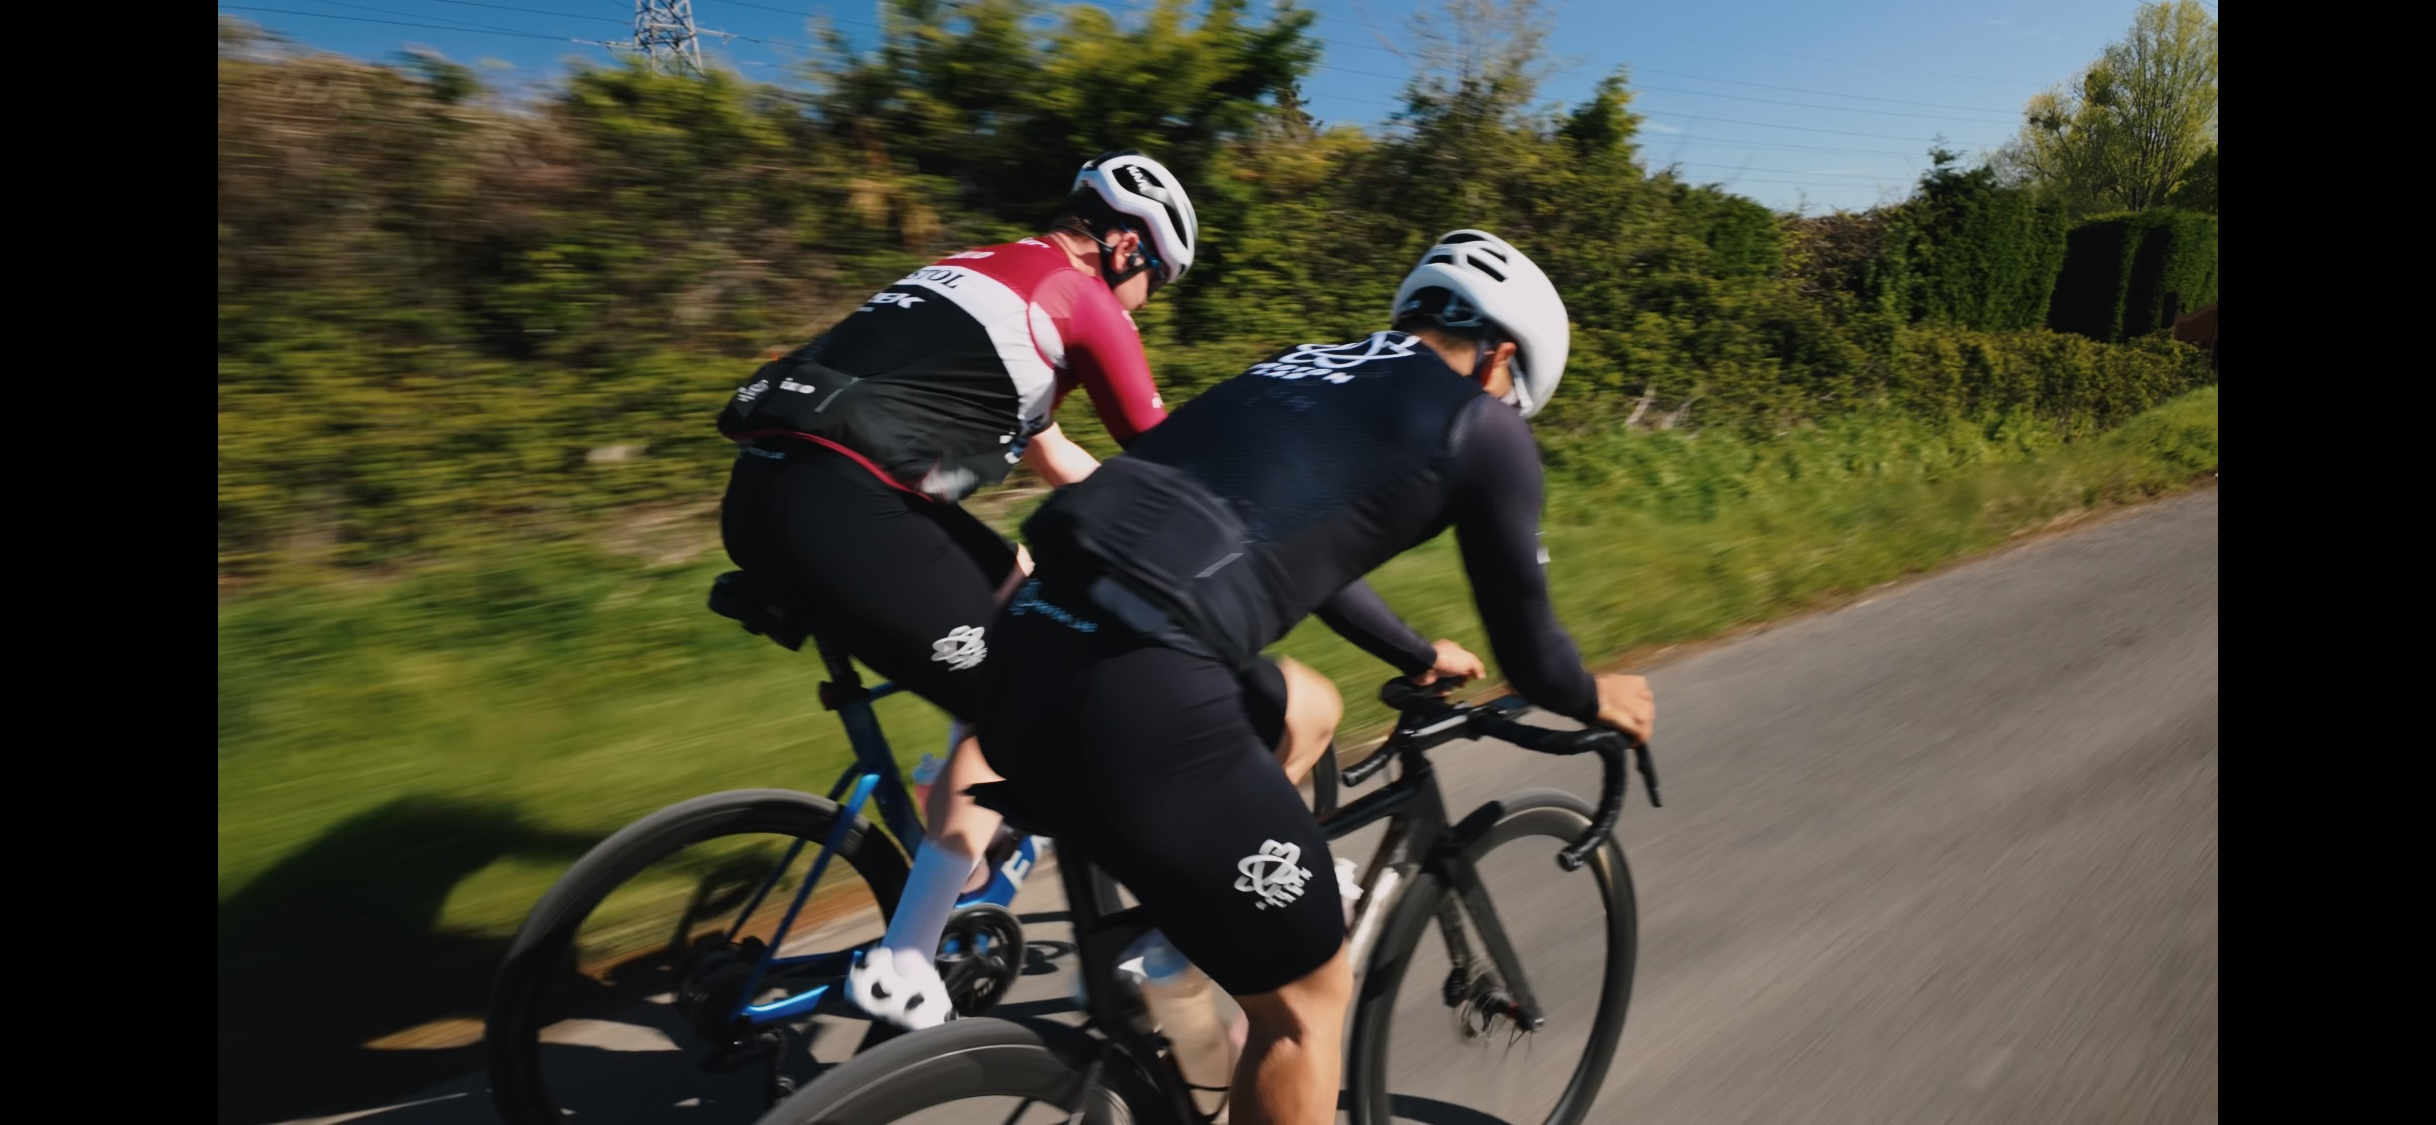
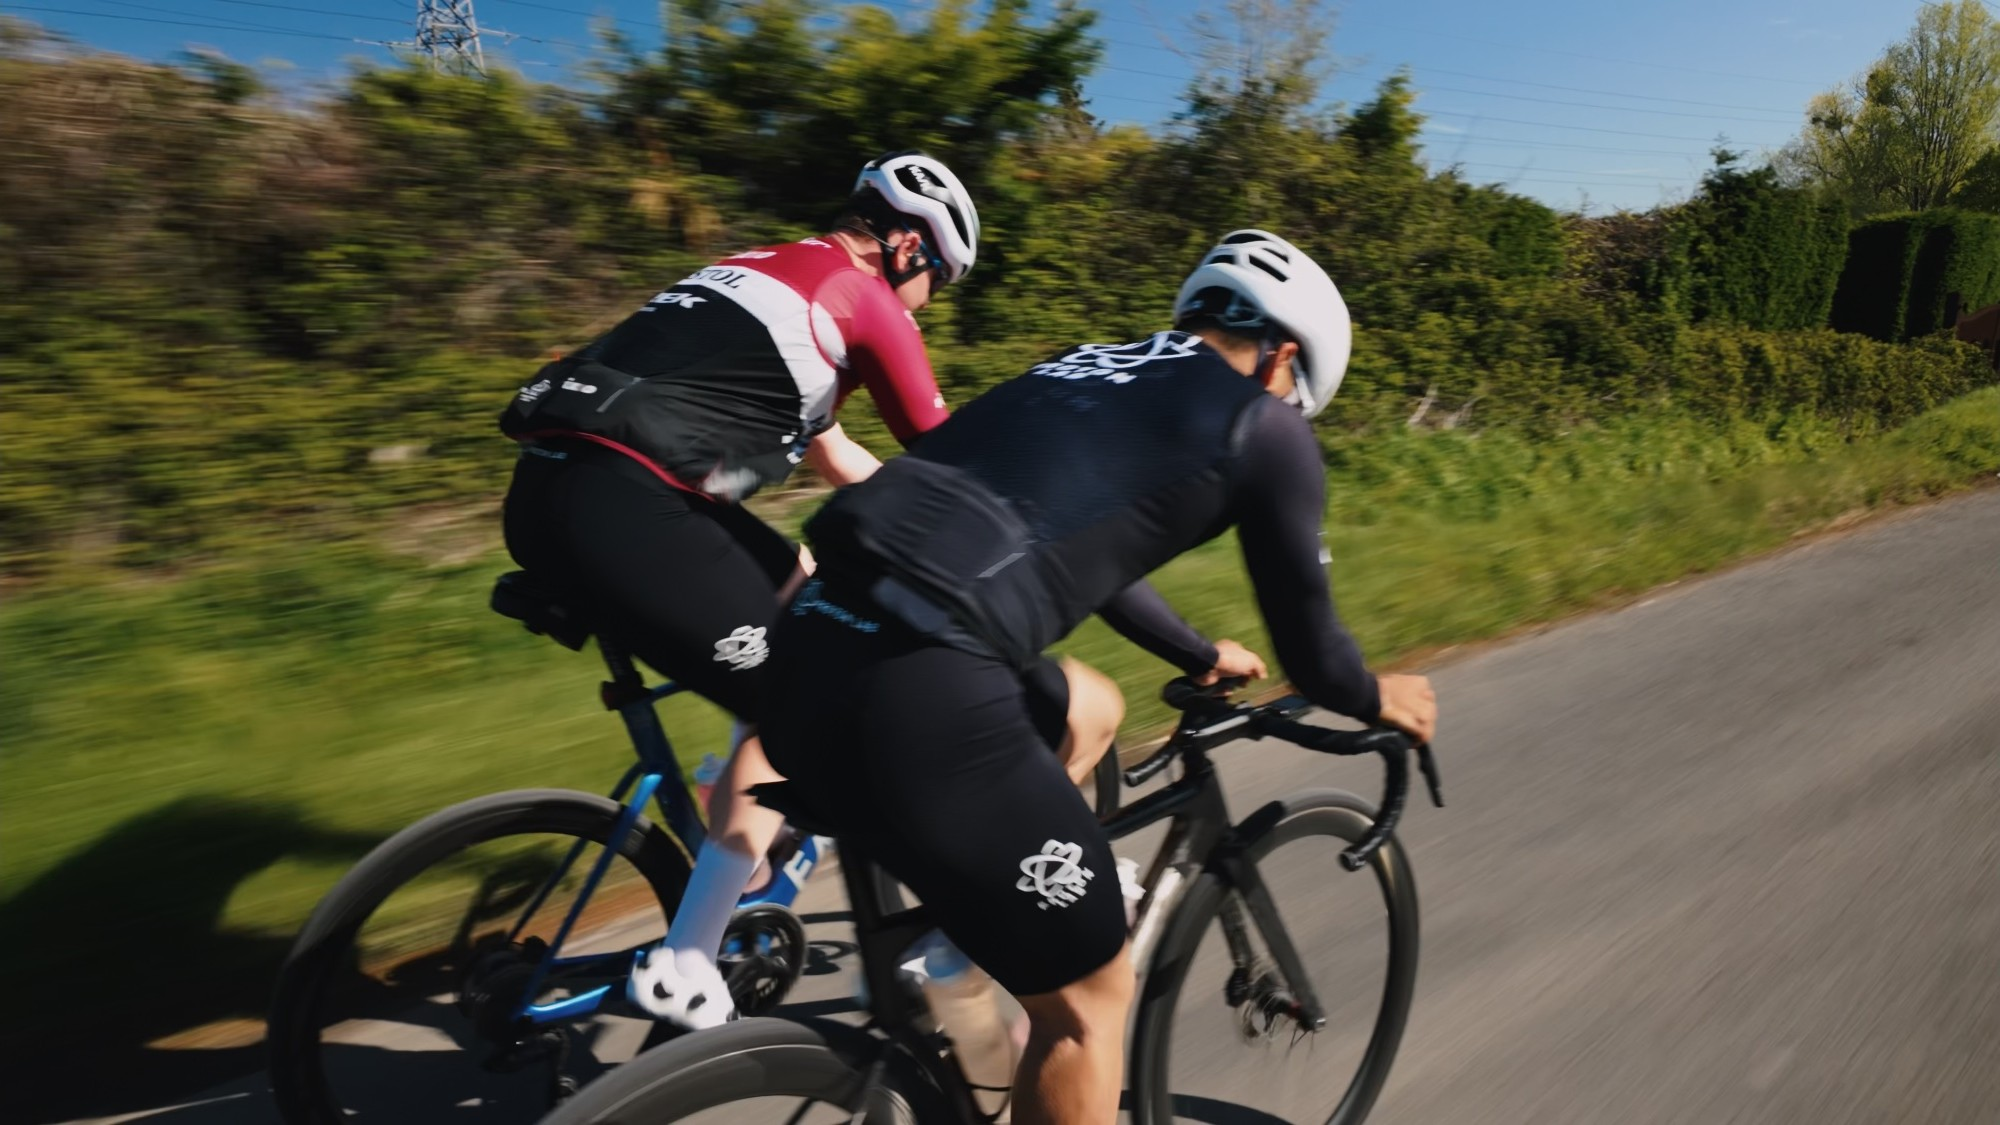
Club PDP fit selector; remove decorative eyebrows site-wide; fix Custom hero image
- Club product pages: Men's / Women's "Fit" row above the sizes. No default;
  Add to Cart reads "Select Men's or Women's" until chosen. Fit is prefixed
  onto the size ("Women's M") so it reaches the cart, Stripe metadata, order
  emails and the dashboard. Accessories (socks, mitts, warmers, buff) skip it.
- Remove the small uppercase eyebrow labels across the site: club gate
  ("Club Access"), home hero ("Proton Lab CC") + scroll indicator, home
  carousel ("New In"), home tiles, shop cards + retail PDP collection name,
  club PDP club name, club landing section labels, custom page, contact,
  delivery, privacy, giveaway terms, 404, about, team, journal. The cart
  drawer's club/brand line is kept. Unused imports/lookups removed.
- Custom page hero: crop the 218px black bars baked into Custom.jpg
  (2436x1125 -> 2000x1125), bump the src to ?v=2, and raise the hero from
  ~48vh to 70svh / 80vh.

Claude-Session: https://claude.ai/code/session_01C3jQdtZ2G15HrJkTxd1y2D

diff --git a/app/custom/club/[handle]/[productHandle]/ClubVariantSelector.tsx b/app/custom/club/[handle]/[productHandle]/ClubVariantSelector.tsx
@@ -18,16 +18,29 @@ interface Props {
   // and the order emails, and keeps cart lines distinct across colourways
   // that share one catalogue handle.
   variant?: string
+  // Show the Men's / Women's fit choice above the sizes. Off for unisex
+  // accessories (socks, mitts, warmers, buff).
+  showFit?: boolean
 }
 
-export default function ClubVariantSelector({ variants, productHandle, productName, clubHandle, clubName, price, variant }: Props) {
+type Fit = "Men's" | "Women's"
+const FITS: Fit[] = ["Men's", "Women's"]
+
+export default function ClubVariantSelector({ variants, productHandle, productName, clubHandle, clubName, price, variant, showFit = true }: Props) {
   const [selectedId, setSelectedId] = useState<string | null>(variants[0]?.id ?? null)
+  // No default fit — the customer must choose, so a women's order can't
+  // slip through as men's cut by accident.
+  const [fit, setFit] = useState<Fit | null>(null)
   const [added, setAdded] = useState(false)
   const { addItem, openCart } = useCartStore()
 
   const selected = variants.find(v => v.id === selectedId)
   const baseSize = selected?.selectedOptions.find(o => o.name === 'Size')?.value ?? selected?.title ?? ''
-  const sizeLabel = variant ? `${baseSize} — ${variant}` : baseSize
+  // Fit is prefixed onto the size (e.g. "Women's M") so it reaches Stripe
+  // metadata, the order emails and the dashboard alongside the size.
+  const fitSize = showFit && fit ? `${fit} ${baseSize}` : baseSize
+  const sizeLabel = variant ? `${fitSize} — ${variant}` : fitSize
+  const needsFit = showFit && !fit
 
   // Meta Pixel: club product page viewed
   useEffect(() => {
@@ -56,7 +69,7 @@ export default function ClubVariantSelector({ variants, productHandle, productNa
   }, [productHandle])
 
   function handleAddToCart() {
-    if (!selected) return
+    if (!selected || needsFit) return
     addItem({ clubHandle, clubName, productHandle, productName, size: sizeLabel, price })
     trackMetaEvent('AddToCart', {
       content_ids: [productHandle],
@@ -85,6 +98,33 @@ export default function ClubVariantSelector({ variants, productHandle, productNa
 
   return (
     <div className="space-y-6">
+      {/* Fit selector — Men's / Women's */}
+      {showFit && (
+        <div>
+          <p className="text-[10px] uppercase tracking-widest text-proton-grey mb-3">Fit</p>
+          <div className="flex flex-wrap gap-2">
+            {FITS.map(f => {
+              const isSelected = fit === f
+              return (
+                <button
+                  key={f}
+                  type="button"
+                  aria-pressed={isSelected}
+                  onClick={() => { setFit(f); setAdded(false) }}
+                  className={`h-11 px-5 border text-xs uppercase tracking-widest transition-all duration-200 focus-visible:outline-none focus-visible:ring-2 focus-visible:ring-proton-black focus-visible:ring-offset-2 ${
+                    isSelected
+                      ? 'bg-proton-black text-proton-white border-proton-black'
+                      : 'bg-transparent text-proton-black border-proton-mid hover:border-proton-black'
+                  }`}
+                >
+                  {f}
+                </button>
+              )
+            })}
+          </div>
+        </div>
+      )}
+
       {/* Size selector */}
       <div>
         <p className="text-[10px] uppercase tracking-widest text-proton-grey mb-3">Size</p>
@@ -115,9 +155,9 @@ export default function ClubVariantSelector({ variants, productHandle, productNa
           size="lg"
           className="w-full justify-center"
           onClick={handleAddToCart}
-          disabled={!selected}
+          disabled={!selected || needsFit}
         >
-          {added ? 'Added to Cart' : 'Add to Cart'}
+          {added ? 'Added to Cart' : needsFit ? "Select Men's or Women's" : 'Add to Cart'}
         </Button>
 
         {added && (

diff --git a/app/custom/page.tsx b/app/custom/page.tsx
@@ -32,9 +32,9 @@ export default function CustomPage() {
   return (
     <PageWrapper noPadding>
       {/* Hero */}
-      <div className="relative min-h-[45svh] md:min-h-[48vh] bg-proton-black overflow-hidden flex items-end">
+      <div className="relative min-h-[70svh] md:min-h-[80vh] bg-proton-black overflow-hidden flex items-end">
         <Image
-          src="/images/hero/Custom.jpg"
+          src="/images/hero/Custom.jpg?v=2"
           alt=""
           fill
           priority
@@ -43,9 +43,6 @@ export default function CustomPage() {
         />
         <div className="absolute inset-0 bg-gradient-to-t from-proton-black/80 via-proton-black/20 to-transparent" />
         <div className="relative z-10 max-w-7xl w-full mx-auto px-6 md:px-12 pb-8 md:pb-10">
-          <p className="text-[10px] text-proton-white/60 uppercase tracking-widest mb-3">
-            Custom Kit
-          </p>
           <h1 className="font-playfair text-5xl md:text-7xl text-proton-white leading-none max-w-2xl">
             Your Identity.<br />Your Design.
           </h1>
@@ -79,9 +76,6 @@ export default function CustomPage() {
       {/* Process */}
       <div className="border-t border-proton-light py-16 md:py-24">
         <div className="max-w-7xl mx-auto px-6 md:px-12">
-          <p className="text-[10px] text-proton-grey uppercase tracking-widest mb-12">
-            How It Works
-          </p>
           <div className="grid grid-cols-1 sm:grid-cols-2 lg:grid-cols-4 gap-10">
             {process.map(step => (
               <div key={step.step}>
@@ -112,9 +106,6 @@ export default function CustomPage() {
       <div className="border-t border-proton-light py-16 md:py-20 bg-proton-light">
         <div className="max-w-7xl mx-auto px-6 md:px-12 flex flex-col md:flex-row justify-between items-start md:items-center gap-8">
           <div>
-            <p className="text-[10px] text-proton-grey uppercase tracking-widest mb-3">
-              Club Shops
-            </p>
             <h2 className="font-playfair text-3xl md:text-4xl leading-tight max-w-lg">
               Private team stores — order, reorder, and manage your club kit online.
             </h2>

diff --git a/app/page.tsx b/app/page.tsx
@@ -38,7 +38,6 @@ export default async function HomePage() {
       {/* 1. Hero */}
       <VideoHero
         imageSrc="/images/hero/Home2.jpeg"
-        eyebrow="Proton Lab CC"
         headline="No Compromise."
         subheadline="Premium cycling apparel precision-engineered for those who train and race."
         ctaText="Shop"
@@ -63,7 +62,6 @@ export default async function HomePage() {
             />
             <div className="absolute inset-0 bg-proton-black/40 group-hover:bg-proton-black/55 transition-colors duration-300" />
             <div className="relative z-10 p-8 md:p-10">
-              <p className="text-[10px] text-proton-white/60 uppercase tracking-widest mb-2">Ready to Ship</p>
               <h2 className="font-playfair text-4xl text-proton-white leading-none">Shop</h2>
               <span className="inline-block mt-4 text-xs uppercase tracking-widest text-proton-white border-b border-proton-white pb-0.5">
                 Shop Now
@@ -80,7 +78,6 @@ export default async function HomePage() {
             />
             <div className="absolute inset-0 bg-proton-black/40 group-hover:bg-proton-black/55 transition-colors duration-300" />
             <div className="relative z-10 p-8 md:p-10">
-              <p className="text-[10px] text-proton-white/60 uppercase tracking-widest mb-2">Made to Order</p>
               <h2 className="font-playfair text-4xl text-proton-white leading-none">Custom Kit</h2>
               <span className="inline-block mt-4 text-xs uppercase tracking-widest text-proton-white border-b border-proton-white pb-0.5">
                 Learn More

diff --git a/app/team/page.tsx b/app/team/page.tsx
@@ -52,9 +52,6 @@ export default function TeamPage() {
       {/* Header */}
       <div className="max-w-7xl mx-auto px-6 md:px-12 py-24 md:py-32">
         <div className="max-w-2xl mb-16 md:mb-24">
-          <p className="text-[10px] text-proton-grey uppercase tracking-widest mb-4">
-            The Athletes
-          </p>
           <h1 className="font-playfair text-5xl md:text-7xl leading-none mb-8">
             Our Team
           </h1>
@@ -77,9 +74,6 @@ export default function TeamPage() {
                   className="object-cover transition-transform duration-500 group-hover:scale-105"
                 />
               </div>
-              <p className="text-[10px] text-proton-grey uppercase tracking-widest mb-1">
-                {member.role}
-              </p>
               <h3 className="font-playfair text-xl mb-3">{member.name}</h3>
               <p className="text-sm text-proton-grey leading-relaxed">{member.bio}</p>
             </div>
@@ -92,9 +86,6 @@ export default function TeamPage() {
         <div className="max-w-7xl mx-auto px-6 md:px-12">
           <div className="flex flex-col md:flex-row justify-between items-start md:items-center gap-6">
             <div>
-              <p className="text-[10px] text-proton-grey uppercase tracking-widest mb-2">
-                For Clubs & Teams
-              </p>
               <p className="font-playfair text-2xl md:text-3xl">
                 Interested in a team kit?
               </p>

diff --git a/app/about/page.tsx b/app/about/page.tsx
@@ -37,9 +37,6 @@ export default function AboutPage() {
       {/* Header */}
       <div className="max-w-7xl mx-auto px-6 md:px-12 py-24 md:py-32">
         <div className="max-w-3xl">
-          <p className="text-[10px] text-proton-grey uppercase tracking-widest mb-4">
-            The Brand
-          </p>
           <h1 className="font-playfair text-5xl md:text-7xl leading-none mb-10">
             About Proton Lab CC
           </h1>
@@ -69,9 +66,6 @@ export default function AboutPage() {
 
       {/* Values */}
       <div className="max-w-7xl mx-auto px-6 md:px-12 py-16 mb-16">
-        <p className="text-[10px] text-proton-grey uppercase tracking-widest mb-12">
-          What We Stand For
-        </p>
         <div className="grid grid-cols-1 md:grid-cols-3 gap-12 md:gap-8">
           {values.map(value => (
             <div key={value.title}>
@@ -88,14 +82,10 @@ export default function AboutPage() {
           <p className="font-playfair text-2xl md:text-3xl">
             Engineered in the United Kingdom.
           </p>
-          <p className="text-[10px] text-proton-grey uppercase tracking-widest">
-            Est. 2026
-          </p>
         </div>
       </div>
 
       <CTABanner
-        eyebrow="The Collections"
         headline="See what we have built."
         ctaText="Shop"
         ctaHref="/shop"

diff --git a/components/ui/JournalCard.tsx b/components/ui/JournalCard.tsx
@@ -1,7 +1,6 @@
 import Image from 'next/image'
 import Link from 'next/link'
 import type { JournalPost } from '@/types/journal'
-import { formatDate } from '@/lib/utils'
 
 interface JournalCardProps {
   post: JournalPost
@@ -25,9 +24,6 @@ export default function JournalCard({ post, featured = false, priority = false }
           />
         </div>
         <div>
-          <p className="text-[10px] text-proton-grey uppercase tracking-widest mb-3">
-            {formatDate(post.publishedAt)}
-          </p>
           <h2 className="font-playfair text-3xl md:text-4xl text-proton-black leading-tight mb-4 group-hover:opacity-70 transition-opacity duration-200">
             {post.title}
           </h2>
@@ -56,9 +52,6 @@ export default function JournalCard({ post, featured = false, priority = false }
           priority={priority}
         />
       </div>
-      <p className="text-[10px] text-proton-grey uppercase tracking-widest mb-2">
-        {formatDate(post.publishedAt)}
-      </p>
       <h3 className="font-playfair text-xl text-proton-black leading-snug mb-2 group-hover:opacity-70 transition-opacity duration-200">
         {post.title}
       </h3>

diff --git a/app/products/[slug]/page.tsx b/app/products/[slug]/page.tsx
@@ -58,7 +58,6 @@ export default async function ProductPage({ params }: PageProps) {
   const product = await getProductByHandle(params.slug, currency)
   if (!product) notFound()
 
-  const collectionRef = product.collections?.nodes[0]
   const { amount, currencyCode } = product.priceRange.minVariantPrice
 
   // Cross-sell rows — resolved through the same gate as the page itself, so a
@@ -98,11 +97,6 @@ export default async function ProductPage({ params }: PageProps) {
           <div className="md:col-span-2 md:sticky md:top-24 md:self-start space-y-8">
             {/* Title + price */}
             <div>
-              {collectionRef && (
-                <p className="text-[10px] text-proton-grey uppercase tracking-widest mb-2">
-                  {collectionRef.title}
-                </p>
-              )}
               <h1 className="font-playfair text-3xl md:text-4xl leading-tight mb-4">
                 {product.title}
               </h1>

diff --git a/components/sections/HomeCollectionCarousel.tsx b/components/sections/HomeCollectionCarousel.tsx
@@ -13,7 +13,7 @@ interface HomeCollectionCarouselProps {
 
 export default function HomeCollectionCarousel({
   products,
-  eyebrow = 'New In',
+  eyebrow,
   heading = 'Summer 2026',
 }: HomeCollectionCarouselProps) {
   if (products.length === 0) return null
@@ -25,7 +25,9 @@ export default function HomeCollectionCarousel({
     <section aria-label={`${heading} collection`} className="py-8 md:py-10 border-t border-proton-light">
       <div className="max-w-7xl mx-auto px-6 md:px-12 mb-5 md:mb-6 flex items-end justify-between">
         <div>
-          <p className="text-[10px] text-proton-grey uppercase tracking-widest mb-2">{eyebrow}</p>
+          {eyebrow && (
+            <p className="text-[10px] text-proton-grey uppercase tracking-widest mb-2">{eyebrow}</p>
+          )}
           <h2 className="font-playfair text-3xl md:text-4xl text-proton-black leading-none">{heading}</h2>
         </div>
         <Link

diff --git a/components/ui/ProductCard.tsx b/components/ui/ProductCard.tsx
@@ -9,7 +9,6 @@ interface ProductCardProps {
 }
 
 export default function ProductCard({ product, priority = false }: ProductCardProps) {
-  const collectionTitle = product.collections?.nodes[0]?.title
   const { amount, currencyCode } = product.priceRange.minVariantPrice
 
   // Fixed 2:3 frame keeps every card the same height. Portrait photos fill it
@@ -70,11 +69,6 @@ export default function ProductCard({ product, priority = false }: ProductCardPr
 
       {/* Card details */}
       <div className="pt-3 pb-1">
-        {collectionTitle && (
-          <p className="text-[10px] text-proton-grey uppercase tracking-widest mb-1">
-            {collectionTitle}
-          </p>
-        )}
         <h3 className="font-inter text-sm text-proton-black leading-snug group-hover:opacity-60 transition-opacity duration-200">
           {product.title}
         </h3>

diff --git a/app/custom/club/[handle]/[productHandle]/page.tsx b/app/custom/club/[handle]/[productHandle]/page.tsx
@@ -96,9 +96,6 @@ export default function ClubProductPage() {
             {/* Details */}
             <div className="md:sticky md:top-24 md:self-start space-y-8">
               <div>
-                <p className="text-[10px] text-proton-grey uppercase tracking-widest mb-2">
-                  {club.name}
-                </p>
                 <h1 className="font-playfair text-3xl md:text-4xl leading-tight mb-4">
                   {clubProduct.name}
                 </h1>
@@ -113,6 +110,7 @@ export default function ClubProductPage() {
                 clubName={club.name}
                 price={clubProduct.price}
                 variant={clubProduct.variant}
+                showFit={clubProduct.category !== 'accessories'}
               />
 
               <DeliveryNote />

diff --git a/app/journal/[slug]/page.tsx b/app/journal/[slug]/page.tsx
@@ -4,7 +4,6 @@ import Link from 'next/link'
 import { notFound } from 'next/navigation'
 import PageWrapper from '@/components/layout/PageWrapper'
 import { getJournalPosts, getJournalPostByHandle } from '@/lib/api'
-import { formatDate } from '@/lib/utils'
 
 interface PageProps {
   params: { slug: string }
@@ -54,9 +53,6 @@ export default async function JournalPostPage({ params }: PageProps) {
 
         {/* Meta */}
         <div className="mb-8">
-          <p className="text-[10px] text-proton-grey uppercase tracking-widest mb-3">
-            {formatDate(post.publishedAt)} &nbsp;·&nbsp; {post.author.name}
-          </p>
           <h1 className="font-playfair text-4xl md:text-5xl leading-tight">
             {post.title}
           </h1>

diff --git a/app/custom/club/[handle]/page.tsx b/app/custom/club/[handle]/page.tsx
@@ -55,9 +55,6 @@ export default function ClubShopPage() {
             if (products.length === 0) return null
             return (
               <section key={section.key} className="mb-16 md:mb-20 last:mb-0">
-                <p className="text-[10px] uppercase tracking-widest text-proton-grey mb-8">
-                  {section.label}
-                </p>
                 <div className="grid grid-cols-2 md:grid-cols-3 lg:grid-cols-4 gap-x-6 gap-y-12">
                   {products.map((product, i) => (
                     <Link key={product.handle} href={`/custom/club/${handle}/${product.handle}`} className="group">
